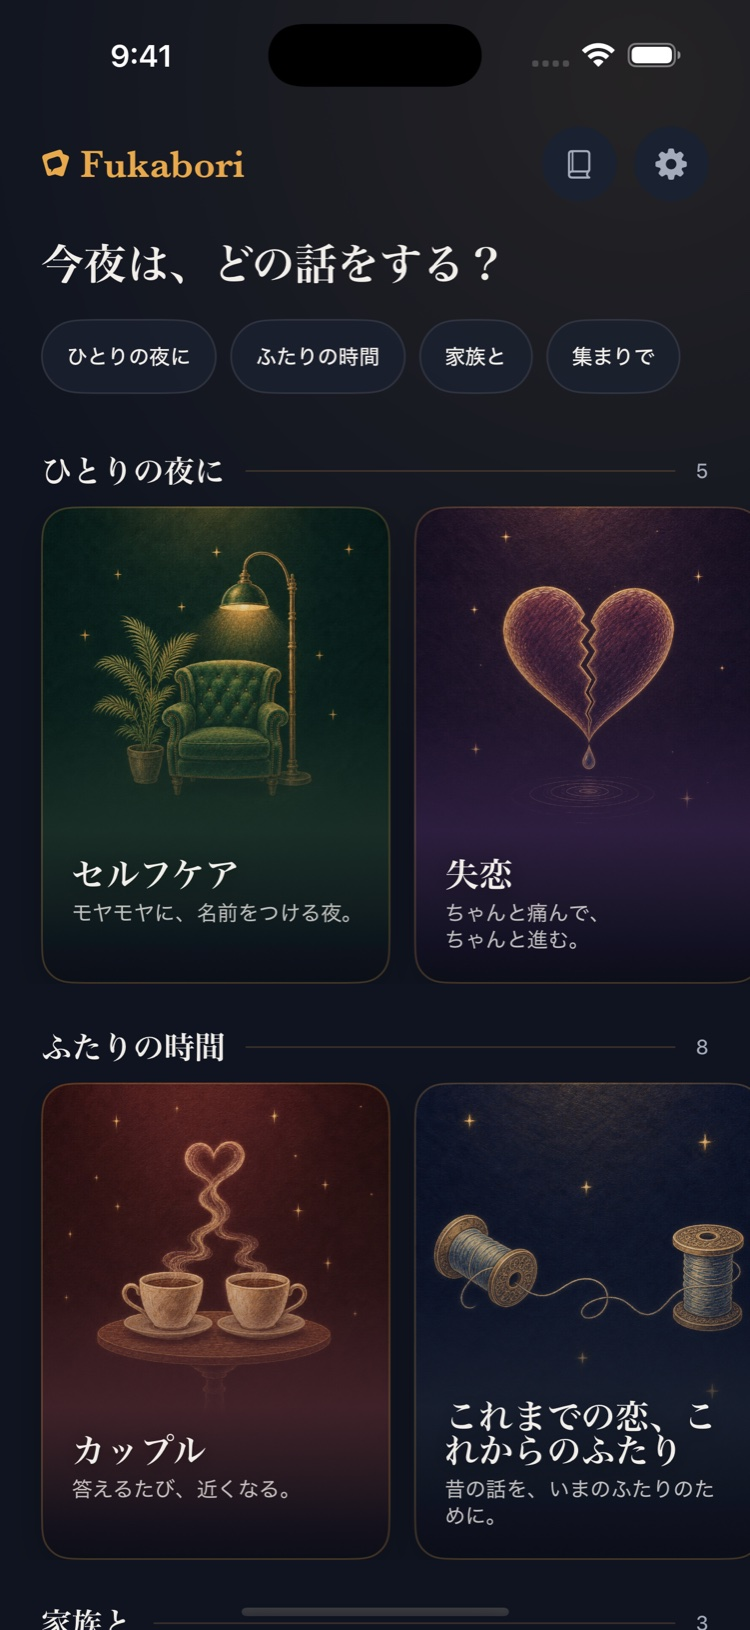
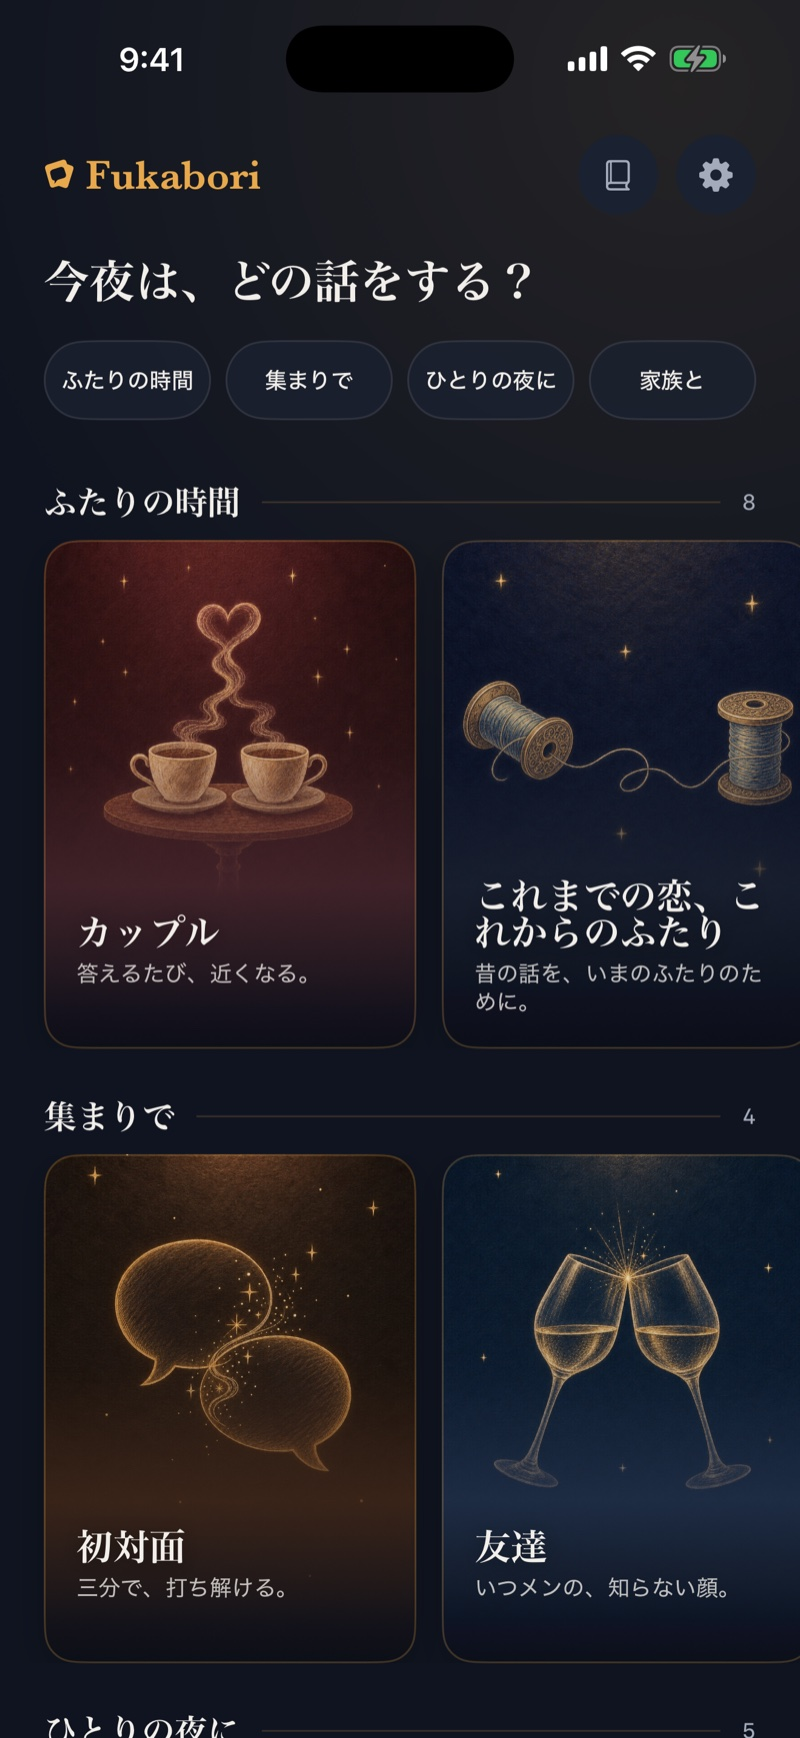
Align the landing page with the 1.5.5 app and store listing
- Title and description use the new store name (深い話ができる質問ゲーム),
  with the same words as a small kicker above the hero headline
- The hero card starts with the first-impression question, as the app's
  onboarding and the first App Store screenshot do
- "画面はこんな感じ" shows the 1.5.5 home, the who-will-you-talk-with
  choice and a card, replacing the old UI
- Decks heading no longer leads with "free"; shelves follow the app's order
  (two of you, gatherings, alone, family) and each links to its custom
  product page, measured as shelf_* store clicks

diff --git a/index.html b/index.html
@@ -3,8 +3,8 @@
 <head>
 <meta charset="utf-8">
 <meta name="viewport" content="width=device-width, initial-scale=1, viewport-fit=cover">
-<title>Fukabori（フカボリ）｜大事な話のきっかけをつくる質問カードアプリ</title>
-<meta name="description" content="スマホを真ん中に置いて、質問カードを1枚めくるだけ。恋人・友達・家族と、照れずに本音を話せる会話カードアプリ。全20デッキ・1776問、どのデッキも冒頭15問は無料。iPhone向け。">
+<title>Fukabori（フカボリ）｜深い話ができる質問ゲーム</title>
+<meta name="description" content="深い話を、ゲームみたいに。スマホを真ん中に置いて、質問カードを1枚めくるだけ。恋人・友達・家族と、照れずに本音を話せる質問ゲーム。全20デッキ・1776問。">
 <link rel="canonical" href="https://hiranuma-shuya.github.io/fukabori-site/">
 <meta name="theme-color" content="#0F1420">
 <meta name="color-scheme" content="dark">
@@ -178,6 +178,7 @@
     font-feature-settings: "palt" 1;
   }
   h1 .gold { color: var(--amber); }
+  .kicker { color: var(--amber); font-size: 14px; letter-spacing: .14em; margin: 0 0 18px; }
   h1 .line { display: block; white-space: nowrap; }
   .lead { color: var(--text2); margin-top: 30px; font-size: 17px; line-height: 2.05; max-width: 30em; }
   .lead em { font-style: normal; color: var(--text); }
@@ -355,6 +356,10 @@
   figure.deck-cover figcaption span { display: flex; align-items: center; gap: 7px; margin-top: 6px; color: var(--text2); font-size: 13.5px; letter-spacing: .06em; }
   /* アプリのデッキの色（DeckStyle.accent）を、問数の前の小さな印で */
   figure.deck-cover figcaption span::before { content: ""; width: 7px; height: 7px; border-radius: 50%; background: var(--accent, var(--amber)); }
+  .shelf-head { display: flex; align-items: baseline; justify-content: space-between; gap: 16px; }
+  .shelf-link { color: var(--amber); font-size: 13px; letter-spacing: .04em; white-space: nowrap; }
+  .shelf-link span { margin-left: 6px; }
+  .shelf-link:hover { text-decoration: underline; text-underline-offset: 4px; }
   .more-decks { margin-top: 48px; color: var(--text2); font-size: 15.5px; line-height: 2; }
   .more-decks b { color: var(--text); font-weight: 700; }
 
@@ -490,6 +495,7 @@
     <div>
       <!-- 1段目は痛み。「話せない」ではなく「きっかけがない」と構造を名指しする。
            機能の説明（会話カードアプリ）はリードに下げる -->
+      <p class="kicker reveal">深い話ができる質問ゲーム</p>
       <h1 class="reveal" style="--d:.08s"><span class="line">大事な話ほど、</span><span class="line gold">きっかけがない。</span></h1>
       <p class="lead reveal" style="--d:.16s">
         <span class="w">スマホを真ん中に置いてめくれば、</span><span class="w">照れくさい本音も</span><span class="w"><em>「ゲームだから」</em>で言える。</span><br>
@@ -509,11 +515,11 @@
         <div class="back-art b2" aria-hidden="true"><img src="img/cards/couple_back.webp" width="966" height="1344" alt=""></div>
         <div class="pcard is-next" aria-hidden="true">
           <span class="deck-name">カップル</span><svg class="stroke" aria-hidden="true"><use href="#stroke"/></svg>
-          <p class="q">わたしの<wbr>機嫌が<wbr>いいときの<wbr>サイン、<wbr>当ててみて</p>
+          <p class="q">最後に<wbr>泣いたのって<wbr>いつ？<wbr>そのこと、<wbr>わたしは<wbr>知ってた？</p>
         </div>
         <div class="pcard is-front">
           <span class="deck-name">カップル</span><svg class="stroke" aria-hidden="true"><use href="#stroke"/></svg>
-          <p class="q">わたしの<wbr>いちばん<wbr>好きな<wbr>食べ物、<wbr>当ててみて</p>
+          <p class="q">わたしの第一印象、<wbr>正直<wbr>どうだった？<wbr>いまと<wbr>どんなふうに<wbr>違う？</p>
         </div>
       </div>
       <div class="deck-meta">
@@ -556,9 +562,9 @@
       <span class="rule"></span>
     </div>
     <div class="screens">
-      <figure class="reveal"><img src="./img/app/screen_home.jpg" alt="デッキを選ぶ画面" width="800" height="1738" loading="lazy" decoding="async"><figcaption>今夜の相手と気分でデッキを選ぶ</figcaption></figure>
-      <figure class="reveal" style="--d:.1s"><img src="./img/app/screen_intro.jpg" alt="実際の質問が読める導入画面" width="800" height="1738" loading="lazy" decoding="async"><figcaption>最初の質問から、会話をはじめる</figcaption></figure>
-      <figure class="reveal" style="--d:.2s"><img src="./img/app/screen_card.jpg" alt="質問カード" width="800" height="1738" loading="lazy" decoding="async"><figcaption>声に出して答える。いやなら飛ばしていい</figcaption></figure>
+      <figure class="reveal"><img src="./img/app/screen_home.jpg" alt="デッキを選ぶ画面" width="800" height="1738" loading="lazy" decoding="async"><figcaption>今夜の相手と気分で、デッキを選ぶ</figcaption></figure>
+      <figure class="reveal" style="--d:.1s"><img src="./img/app/screen_intro.jpg" alt="誰と話すかを選ぶ最初の画面" width="800" height="1738" loading="lazy" decoding="async"><figcaption>誰と話すかを選んで、はじめる</figcaption></figure>
+      <figure class="reveal" style="--d:.2s"><img src="./img/app/screen_card.jpg" alt="質問カード" width="800" height="1738" loading="lazy" decoding="async"><figcaption>声に出して答える。パスもできる</figcaption></figure>
     </div>
   </div>
 </section>
@@ -566,7 +572,7 @@
 <section id="decks" style="padding-top: 0;">
   <div class="wrap">
     <div class="head section-heading reveal">
-      <h2><span class="w">20のデッキ、</span><span class="w">ぜんぶ無料で試せる</span></h2>
+      <h2><span class="w">相手に合わせて、</span><span class="w">20のデッキ</span></h2>
       <span class="rule"></span>
     </div>
 
@@ -574,41 +580,49 @@
          --accent はアプリの DeckStyle.accent と同じ色 -->
     <div class="shelf">
       <div class="shelf-row reveal">
-        <span class="shelf-label">ひとりの夜に</span>
+        <div class="shelf-head"><span class="shelf-label">ふたりの時間</span><a class="shelf-link" data-store-cta="shelf_couple" href="https://apps.apple.com/jp/app/id6794950952?ppid=4c39d165-6158-49cd-8a02-efd05b505383">App Store で見る<span aria-hidden="true">→</span></a></div>
+        <div class="deck-strip">
+          <figure class="deck-cover" style="--accent:#C0707C"><span class="art"><img src="./img/deck/couple_v1.webp" alt="カップル" width="480" height="720" loading="lazy" decoding="async"></span><figcaption><b>カップル</b>答えるたび、近くなる。<span>97問</span></figcaption></figure>
+          <figure class="deck-cover" style="--accent:#E8A94C"><span class="art"><img src="./img/deck/pastlove_v1.webp" alt="これまでの恋、これからのふたり" width="480" height="720" loading="lazy" decoding="async"></span><figcaption><b>これまでの恋、これからのふたり</b>昔の話を、いまのふたりのために。<span>85問</span></figcaption></figure>
+          <figure class="deck-cover" style="--accent:#A75F72"><span class="art"><img src="./img/deck/rekindle_v1.webp" alt="あらためて、ふたりで" width="480" height="720" loading="lazy" decoding="async"></span><figcaption><b>あらためて、ふたりで</b>久しぶりに、ちゃんと話す。<span>101問</span></figcaption></figure>
+          <figure class="deck-cover" style="--accent:#9A8460"><span class="art"><img src="./img/deck/before_living_v1.webp" alt="同棲前会議" width="480" height="720" loading="lazy" decoding="async"></span><figcaption><b>同棲前会議</b>住む前に、ぜんぶ話そう。<span>94問</span></figcaption></figure>
+          <figure class="deck-cover" style="--accent:#4F8A8B"><span class="art"><img src="./img/deck/marriage_v1.webp" alt="結婚前会議" width="480" height="720" loading="lazy" decoding="async"></span><figcaption><b>結婚前会議</b>決める前に、ぜんぶ話す。<span>93問</span></figcaption></figure>
+        </div>
+      </div>
+
+      <div class="shelf-row reveal">
+        <div class="shelf-head"><span class="shelf-label">集まりで</span><a class="shelf-link" data-store-cta="shelf_friends" href="https://apps.apple.com/jp/app/id6794950952?ppid=dacbdf2b-6a52-4402-b2d7-bc678d15aaff">App Store で見る<span aria-hidden="true">→</span></a></div>
+        <div class="deck-strip">
+          <figure class="deck-cover" style="--accent:#6E8CC7"><span class="art"><img src="./img/deck/friends_v1.webp" alt="友達" width="480" height="720" loading="lazy" decoding="async"></span><figcaption><b>友達</b>いつメンの、知らない顔。<span>77問</span></figcaption></figure>
+          <figure class="deck-cover" style="--accent:#C49038"><span class="art"><img src="./img/deck/shimoneta_v1.webp" alt="恋バナ" width="480" height="720" loading="lazy" decoding="async"></span><figcaption><b>恋バナ</b>笑わせたもん勝ち。<span>74問</span></figcaption></figure>
+          <figure class="deck-cover" style="--accent:#4E8C7A"><span class="art"><img src="./img/deck/bestfriend_v1.webp" alt="親友とサシで" width="480" height="720" loading="lazy" decoding="async"></span><figcaption><b>親友とサシで</b>十年分を、一晩で。<span>83問</span></figcaption></figure>
+          <figure class="deck-cover" style="--accent:#C26E4A"><span class="art"><img src="./img/deck/icebreak_v1.webp" alt="初対面" width="480" height="720" loading="lazy" decoding="async"></span><figcaption><b>初対面</b>三分で、打ち解ける。<span>78問</span></figcaption></figure>
+        </div>
+      </div>
+
+      <div class="shelf-row reveal">
+        <div class="shelf-head"><span class="shelf-label">ひとりの夜に</span><a class="shelf-link" data-store-cta="shelf_solo" href="https://apps.apple.com/jp/app/id6794950952?ppid=9de7a005-0032-4d69-b463-dcc5673d8ff3">App Store で見る<span aria-hidden="true">→</span></a></div>
         <div class="deck-strip">
           <figure class="deck-cover" style="--accent:#6F9B7E"><span class="art"><img src="./img/deck/self_v1.webp" alt="セルフケア" width="480" height="720" loading="lazy" decoding="async"></span><figcaption><b>セルフケア</b>モヤモヤに、名前をつける夜。<span>86問</span></figcaption></figure>
           <figure class="deck-cover" style="--accent:#8B7FA8"><span class="art"><img src="./img/deck/breakup_v1.webp" alt="失恋" width="480" height="720" loading="lazy" decoding="async"></span><figcaption><b>失恋</b>ちゃんと痛んで、ちゃんと進む。<span>90問</span></figcaption></figure>
-          <figure class="deck-cover" style="--accent:#9668A8"><span class="art"><img src="./img/deck/goals_v1.webp" alt="目標と習慣" width="480" height="720" loading="lazy" decoding="async"></span><figcaption><b>目標と習慣</b>決意を、続く形に。<span>92問</span></figcaption></figure>
           <figure class="deck-cover" style="--accent:#4A6FA5"><span class="art"><img src="./img/deck/shukatsu_v1.webp" alt="自分を知る" width="480" height="720" loading="lazy" decoding="async"></span><figcaption><b>自分を知る</b>自分のことが、いちばんわからない。<span>91問</span></figcaption></figure>
+          <figure class="deck-cover" style="--accent:#9668A8"><span class="art"><img src="./img/deck/goals_v1.webp" alt="目標と習慣" width="480" height="720" loading="lazy" decoding="async"></span><figcaption><b>目標と習慣</b>決意を、続く形に。<span>92問</span></figcaption></figure>
           <figure class="deck-cover" style="--accent:#8A6E5D"><span class="art"><img src="./img/deck/thirties_v1.webp" alt="30代の棚おろし" width="480" height="720" loading="lazy" decoding="async"></span><figcaption><b>30代の棚おろし</b>気づけば、折り返し。<span>89問</span></figcaption></figure>
         </div>
       </div>
 
       <div class="shelf-row reveal">
-        <span class="shelf-label">ふたりの時間</span>
+        <div class="shelf-head"><span class="shelf-label">家族と</span><a class="shelf-link" data-store-cta="shelf_family" href="https://apps.apple.com/jp/app/id6794950952?ppid=28161e83-39f5-4217-8b26-8f2f5a322d39">App Store で見る<span aria-hidden="true">→</span></a></div>
         <div class="deck-strip">
-          <figure class="deck-cover" style="--accent:#C0707C"><span class="art"><img src="./img/deck/couple_v1.webp" alt="カップル" width="480" height="720" loading="lazy" decoding="async"></span><figcaption><b>カップル</b>答えるたび、近くなる。<span>97問</span></figcaption></figure>
-          <figure class="deck-cover" style="--accent:#9A8460"><span class="art"><img src="./img/deck/before_living_v1.webp" alt="同棲前会議" width="480" height="720" loading="lazy" decoding="async"></span><figcaption><b>同棲前会議</b>住む前に、ぜんぶ話そう。<span>94問</span></figcaption></figure>
-          <figure class="deck-cover" style="--accent:#4F8A8B"><span class="art"><img src="./img/deck/marriage_v1.webp" alt="結婚前会議" width="480" height="720" loading="lazy" decoding="async"></span><figcaption><b>結婚前会議</b>決める前に、ぜんぶ話す。<span>93問</span></figcaption></figure>
-          <figure class="deck-cover" style="--accent:#7A8B5A"><span class="art"><img src="./img/deck/money_v1.webp" alt="お金の会議" width="480" height="720" loading="lazy" decoding="async"></span><figcaption><b>お金の会議</b>言いにくい話は、カードに言わせる。<span>94問</span></figcaption></figure>
-          <figure class="deck-cover" style="--accent:#5F7D9A"><span class="art"><img src="./img/deck/lifeplan_v1.webp" alt="ふたりの人生設計" width="480" height="720" loading="lazy" decoding="async"></span><figcaption><b>ふたりの人生設計</b>その選択、ふたりで決めたい。<span>94問</span></figcaption></figure>
-        </div>
-      </div>
-
-      <div class="shelf-row reveal">
-        <span class="shelf-label">家族と・集まりで</span>
-        <div class="deck-strip">
-          <figure class="deck-cover" style="--accent:#B5793F"><span class="art"><img src="./img/deck/kazoku_v1.webp" alt="家族で話す" width="480" height="720" loading="lazy" decoding="async"></span><figcaption><b>家族で話す</b>家族なのに、意外と知らない。<span>89問</span></figcaption></figure>
           <figure class="deck-cover" style="--accent:#5C7A8F"><span class="art"><img src="./img/deck/parents_v1.webp" alt="親と話す" width="480" height="720" loading="lazy" decoding="async"></span><figcaption><b>親と話す</b>いつか聞こうを、今日にする。<span>90問</span></figcaption></figure>
+          <figure class="deck-cover" style="--accent:#B5793F"><span class="art"><img src="./img/deck/kazoku_v1.webp" alt="家族で話す" width="480" height="720" loading="lazy" decoding="async"></span><figcaption><b>家族で話す</b>家族なのに、意外と知らない。<span>89問</span></figcaption></figure>
           <figure class="deck-cover" style="--accent:#D3A02F"><span class="art"><img src="./img/deck/kids_v1.webp" alt="子どもと話す" width="480" height="720" loading="lazy" decoding="async"></span><figcaption><b>子どもと話す</b>もう一問だけ、聞かせて。<span>85問</span></figcaption></figure>
-          <figure class="deck-cover" style="--accent:#4E8C7A"><span class="art"><img src="./img/deck/bestfriend_v1.webp" alt="親友とサシで" width="480" height="720" loading="lazy" decoding="async"></span><figcaption><b>親友とサシで</b>十年分を、一晩で。<span>83問</span></figcaption></figure>
-          <figure class="deck-cover" style="--accent:#C26E4A"><span class="art"><img src="./img/deck/icebreak_v1.webp" alt="初対面" width="480" height="720" loading="lazy" decoding="async"></span><figcaption><b>初対面</b>三分で、打ち解ける。<span>78問</span></figcaption></figure>
         </div>
       </div>
     </div>
 
     <p class="more-decks reveal">
-      ほかに <b>友達</b>／<b>子育て会議</b>／<b>恋バナ</b>／<b>これまでの恋、これからのふたり</b>／<b>あらためて、ふたりで</b>。
+      ほかに <b>お金の会議</b>／<b>ふたりの人生設計</b>／<b>子育て会議</b>。どのデッキも、最初の何問かは無料で試せます。
     </p>
   </div>
 </section>
@@ -661,14 +675,15 @@
   }
 
   /* ── ヒーローのカード ──
-     カップルデッキの無料の問いから、浅い順に選んだ7問（deck_data.json の preview_ids）。
-     / は文節の切れ目で、表示時に <wbr> にする */
+     カップルデッキの無料の問いから7問（deck_data.json の preview_ids）。
+     アプリの初回案内・App Store の1枚目と同じ「第一印象」から始める。軽い当てっこより、
+     「そうなんだ」が起きる問いを先に見せる。/ は文節の切れ目で、表示時に <wbr> にする */
   var QS = [
-    [1, 'わたしの/いちばん/好きな/食べ物、/当ててみて'],
-    [1, 'わたしの/機嫌が/いいときの/サイン、/当ててみて'],
-    [1, 'ふたりの/写真から/1枚だけ/残すなら、/どれに/する？'],
-    [2, '最後に/泣いたのって/いつ？/そのこと、/わたしは/知ってた？'],
     [3, 'わたしの第一印象、/正直/どうだった？/いまと/どんなふうに/違う？'],
+    [2, '最後に/泣いたのって/いつ？/そのこと、/わたしは/知ってた？'],
+    [1, 'ふたりの/写真から/1枚だけ/残すなら、/どれに/する？'],
+    [1, 'わたしの/機嫌が/いいときの/サイン、/当ててみて'],
+    [1, 'わたしの/いちばん/好きな/食べ物、/当ててみて'],
     [3, 'ケンカの/あと、/ほんとは/どうして/ほしい？/すぐ/話したい？/それとも/少し/時間が/ほしい？'],
     [4, 'わたしに/まだ/一度も/言ってない、/好きな/ところって/ある？']
   ];
